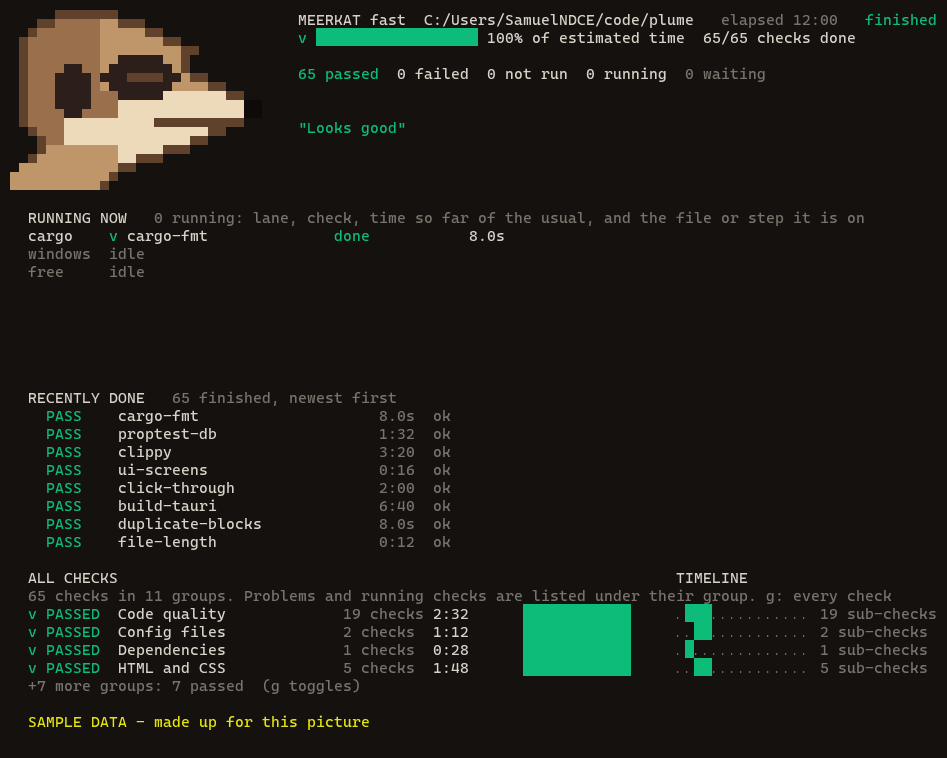
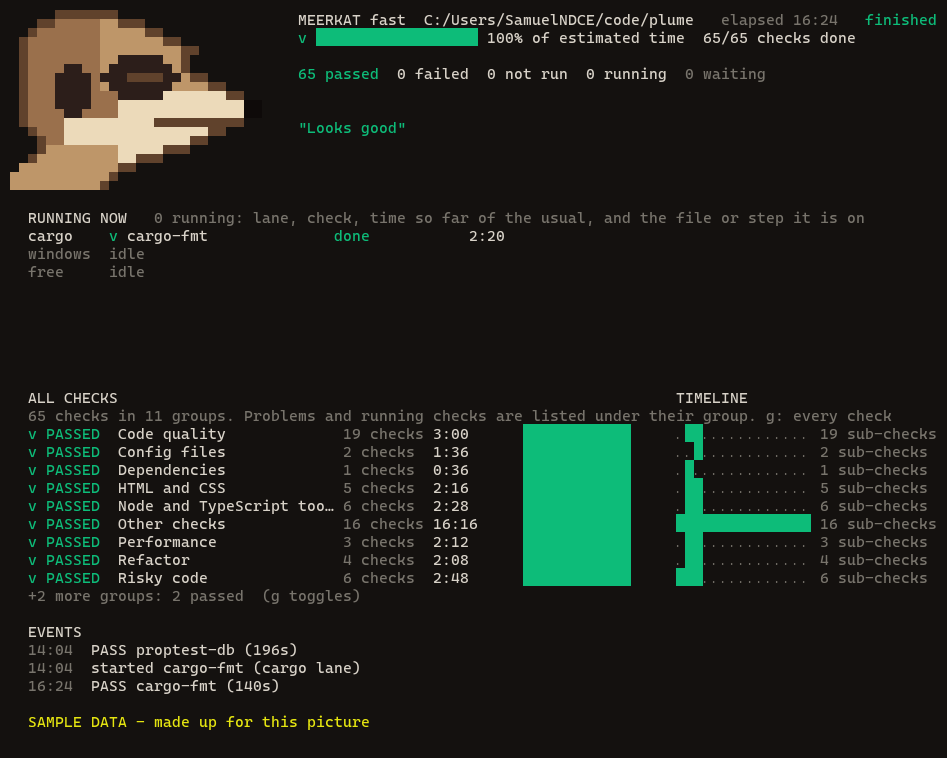
Board: ALL CHECKS shows every group; preset table and pictures

Changed region(s): [[0.0306, 0.5158, 0.6737, 0.9103], [0.7043, 0.5158, 0.9799, 0.9103], [0.49, 0.3034, 0.5512, 0.3338]]

diff --git a/lib/tui/stable.test.ts b/lib/tui/stable.test.ts
@@ -91,7 +91,7 @@ describe('the live board does not flicker', () => {
     const running = (t: number) => {
       const f = at(t)
       const a = f.findIndex((l) => l.includes('RUNNING NOW'))
-      const b = f.findIndex((l) => l.includes('RECENTLY DONE'))
+      const b = f.findIndex((l) => l.includes('ALL CHECKS'))
       return f.slice(a + 1, b).join(NL)
     }
     expect(LINGER_MS).toBeGreaterThanOrEqual(1500)

diff --git a/docs/reference.md b/docs/reference.md
@@ -190,38 +190,38 @@ In a pipe, in CI, or when an AI agent calls it, nothing is drawn and the output 
 <!-- presets:start -->
 Measured on Meerkat's own repository, a small project, on one PC (median of 3 runs). Real projects take as long as their builds and tests; the quick checks that only read files stay at a second or two.
 
-### Everything
+#### Everything
 
 | Command | What it runs | Checks | Time |
 |---|---|---|---|
-| `meerkat quick` | every quick check: before every push | 26 | 1.1 s |
-| `meerkat fast` | every quick check (same as quick) | 26 | 1.0 s |
-| `meerkat full` | every check, the slow ones too: before a release | 152 | 4.1 s |
-| `meerkat thorough` | every check, the slow ones too (same as full) | 152 | 3.9 s |
+| `meerkat quick` | every quick check: before every push | 292 | 10.2 s |
+| `meerkat fast` | every quick check (same as quick) | 292 | 10.4 s |
+| `meerkat full` | every check, the slow ones too: before a release | 294 | 10.5 s |
+| `meerkat thorough` | every check, the slow ones too (same as full) | 294 | 11.0 s |
 
-### By kind
+#### By kind
 
 | Command | What it runs | Checks | Time |
 |---|---|---|---|
 | `meerkat security-fast` | the quick security checks: secrets, risky code, advisories, workflows | 8 | <1 s |
-| `meerkat security` | every security check, the slow ones too | 9 | 1.2 s |
+| `meerkat security` | every security check, the slow ones too | 9 | 1.4 s |
 | `meerkat functionality-fast` | build, type check, lints and tests, quick | 10 | <1 s |
 | `meerkat functionality` | every functionality check, the slow ones too | 10 | <1 s |
 | `meerkat ui-fast` | the quick UI checks: pages, styles, accessibility basics | 4 | <1 s |
 | `meerkat ui` | every UI check, the slow ones too | 4 | <1 s |
 | `meerkat performance-fast` | size, dependency weight, start-up time and memory | 1 | <1 s |
 | `meerkat performance` | every performance check: also response time, load and build time | 1 | <1 s |
-| `meerkat refactor` | is the code in good shape: duplicated code, dead code, files too long | 9 | <1 s |
+| `meerkat refactor` | is the code in good shape: duplicated code, dead code, files too long | 9 | 1.2 s |
 
-### Combinations
+#### Combinations
 
 | Command | What it runs | Checks | Time |
 |---|---|---|---|
 | `meerkat app-fast` | UI and functionality, quick | 14 | <1 s |
 | `meerkat app` | UI and functionality, thorough | 14 | <1 s |
-| `meerkat ci` | quick security and functionality checks, no windows: for a build server | 18 | <1 s |
-| `meerkat release` | everything, including the AI review: before shipping | 152 | 4.0 s |
-| `meerkat security-ai` | every security check plus the AI route audit and diff review | 9 | 1.2 s |
+| `meerkat ci` | quick security and functionality checks, no windows: for a build server | 18 | 1.0 s |
+| `meerkat release` | everything, including the AI review: before shipping | 294 | 11.2 s |
+| `meerkat security-ai` | every security check plus the AI route audit and diff review | 9 | 1.3 s |
 <!-- presets:end -->
 
 Options that go with any run:

diff --git a/CHANGELOG.md b/CHANGELOG.md
@@ -5,7 +5,7 @@ Every released version of Meerkat, newest first. Versions follow semantic versio
 ## 0.3.0 (2026-11-01)
 
 - Longest checks start first and timeouts have more leeway
-- the live board never flickers and keeps recent results in view
+- the live board never flickers and shows every group with its time in ALL CHECKS
 - fewer checks end NOT RUN (meerkat tools, built-in fallbacks)
 - projects are checked before a run
 - fake-app end-to-end tests
